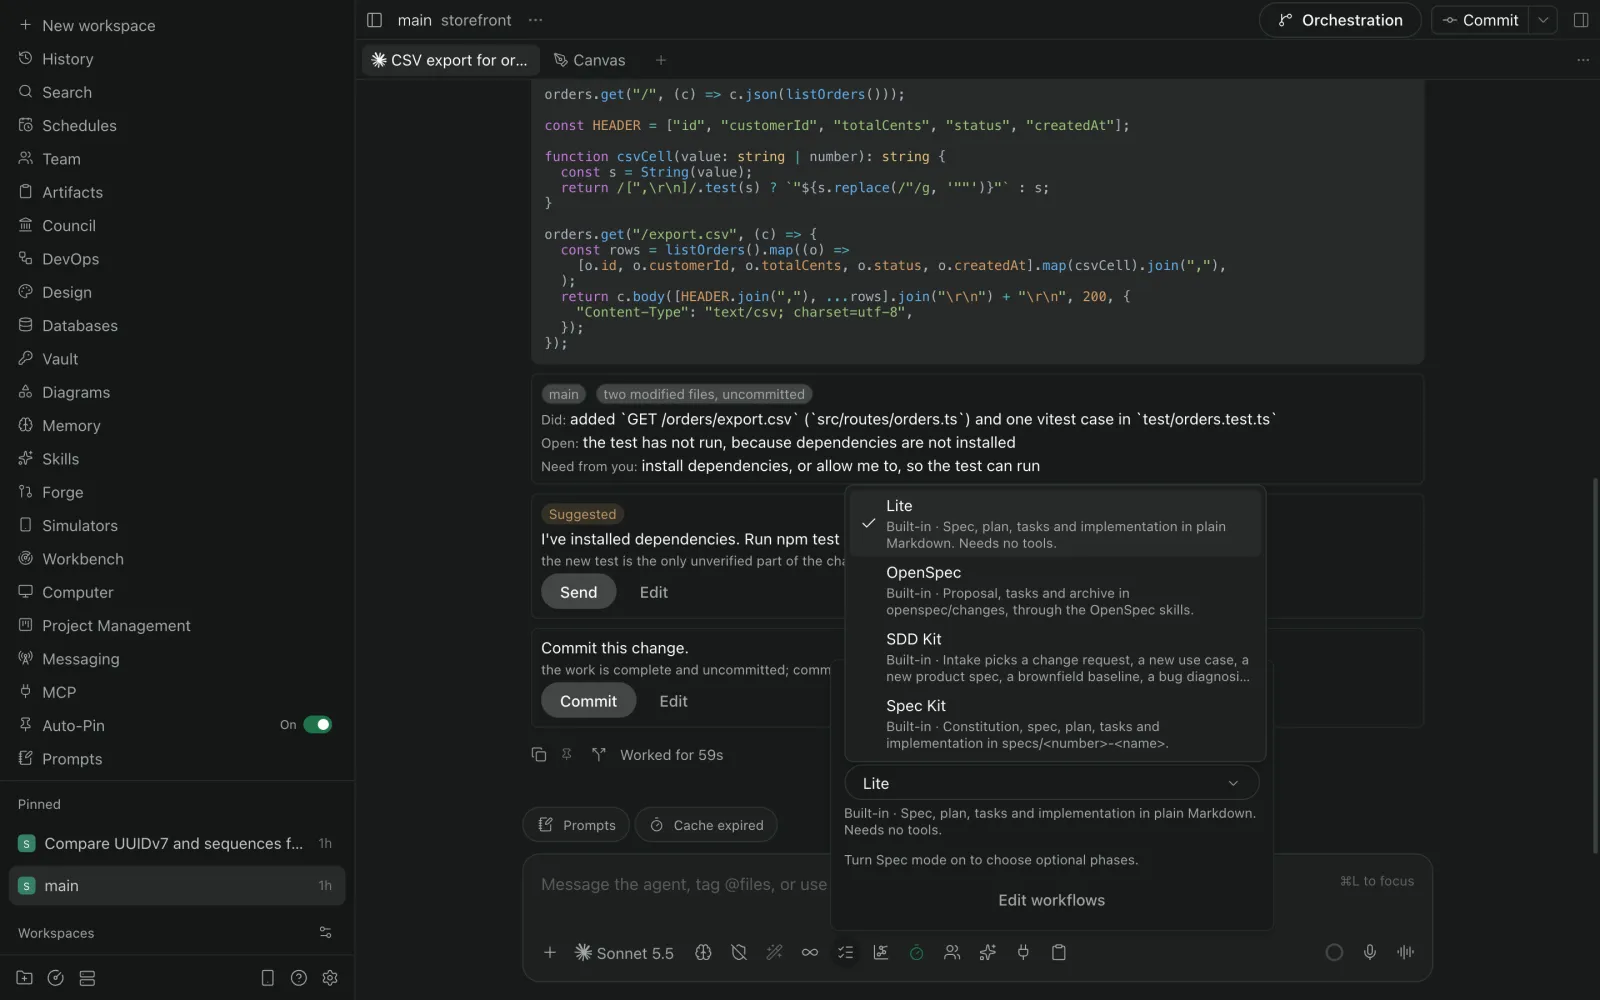
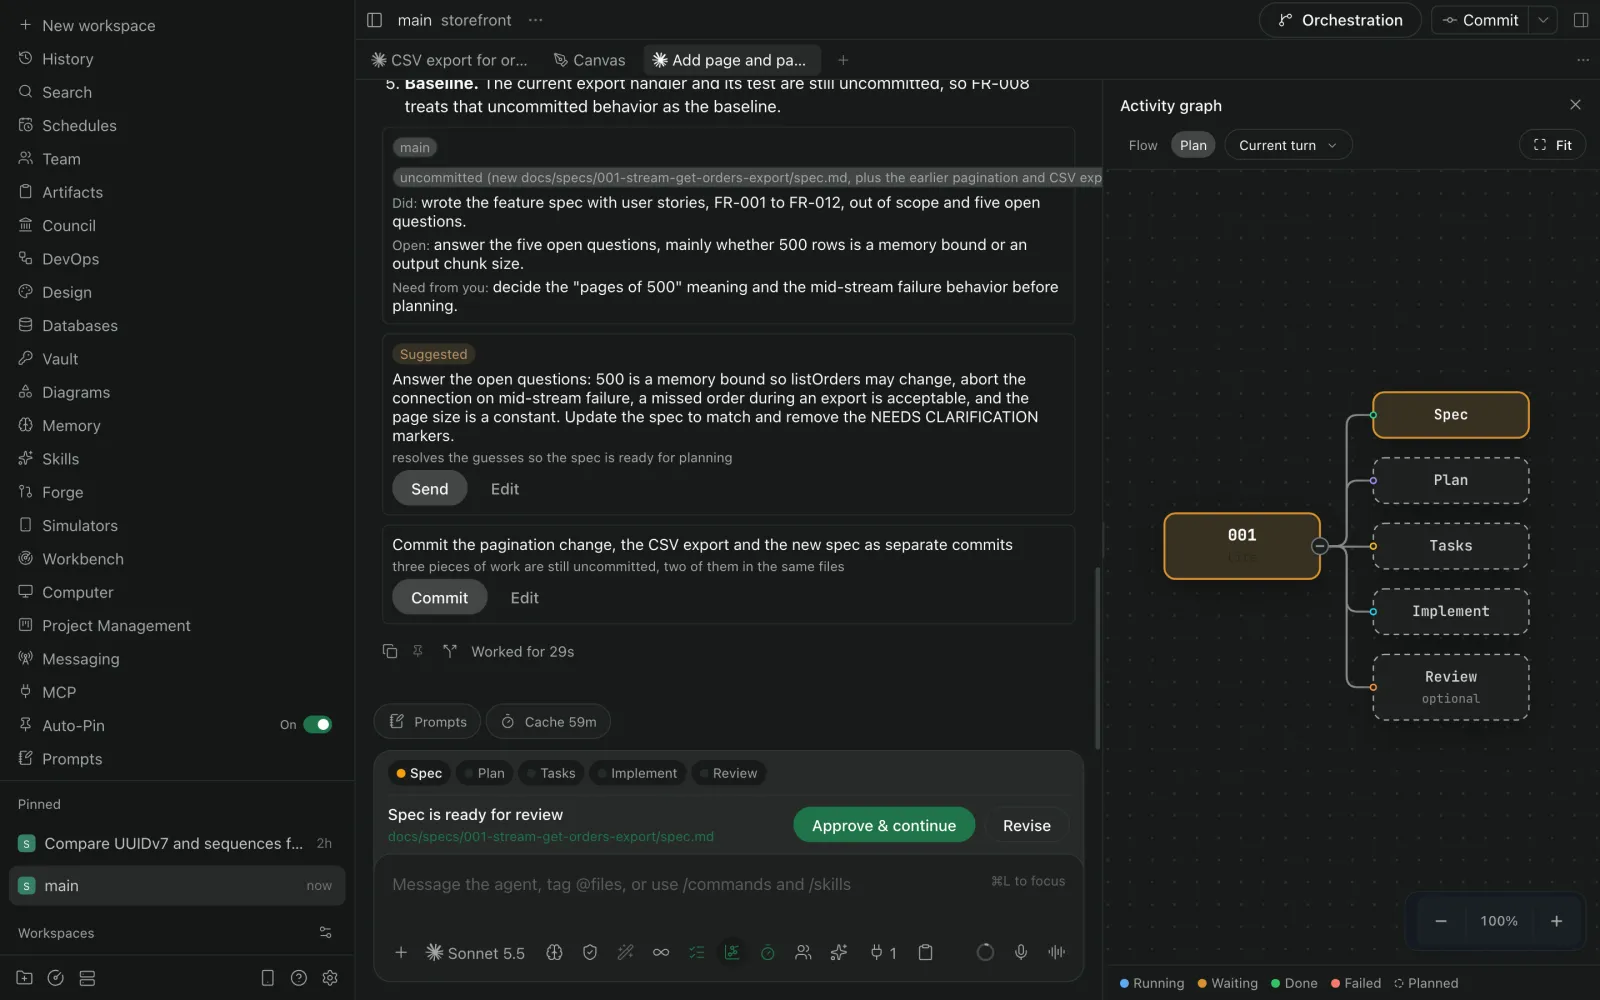
docs(readme): show chat tools, spec mode and figma in the tour
60ad4b4 left the composer and chat features text only, because they need a
live agent turn to show anything. This adds screenshots from real turns on
the demo daemon: Prompt enhancer after a Plan first rewrite, a chat
annotation waiting to go out, a /btw answer in the Side chat panel, and an
html_render dashboard. Figma gets the Figma Link screen, since signing in
needs a private OAuth app.

The Spec mode image changes from the workflow picker to a running change:
the phase bar, the spec review card and the Activity graph Plan view. The
picker showed what you choose; the run shows what the mode does.

To go back to the picker image, restore docs/media/spec-mode.webp from
60ad4b4.

diff --git a/README.md b/README.md
@@ -123,6 +123,26 @@ The agent ends its reply with what it did, what is still open and what it needs 
 
 ![A recap followed by two suggested prompts](docs/media/recap.webp)
 
+### Prompt enhancer
+
+A rough draft after "Plan first": the rewrite asks the agent to investigate and wait for approval. The Undo button sits where the enhance button was.
+
+![A rewritten draft in the composer](docs/media/prompt-enhancer.webp)
+
+### Chat annotations
+
+![A highlighted passage in a reply and one annotation waiting to go out with the next message](docs/media/chat-annotations.webp)
+
+### Side chat
+
+`/btw` asks a question beside the agent. The answer shows in the panel, and the main session receives nothing.
+
+![The Side chat panel answering a question next to the main chat](docs/media/side-chat.webp)
+
+### HTML renders
+
+![A dashboard an agent drew with html_render, inside the chat](docs/media/html-render.webp)
+
 ### Prompts library
 
 ![Four saved prompts with their tags](docs/media/prompts.webp)
@@ -141,9 +161,9 @@ The agent ends its reply with what it did, what is still open and what it needs 
 
 ### Spec mode
 
-Pick a workflow in the composer. The agent then works through it one phase at a time, and you approve each phase.
+Pick a workflow in the composer (Lite, OpenSpec, SDD Kit or Spec Kit). The agent then works through it one phase at a time, and you approve each phase. The Activity graph's Plan view shows where the change is.
 
-![The Spec mode popover with Lite, OpenSpec, SDD Kit and Spec Kit](docs/media/spec-mode.webp)
+![A spec ready for review, with the phase bar and the Plan view](docs/media/spec-mode.webp)
 
 ### Artifacts
 
@@ -200,6 +220,12 @@ Pick a workflow in the composer. The agent then works through it one phase at a 
 ### Diagrams
 
 ![A Mermaid flowchart rendered full screen](docs/media/diagram.webp)
+
+### Figma
+
+Sign in with your own Figma OAuth app, or pair Figma Link with the Paseo plugin in Figma Desktop so agents can edit the open file.
+
+![Figma Link with the local server, the plugin and the pairing code field](docs/media/figma.webp)
 
 ### Canvas
 
